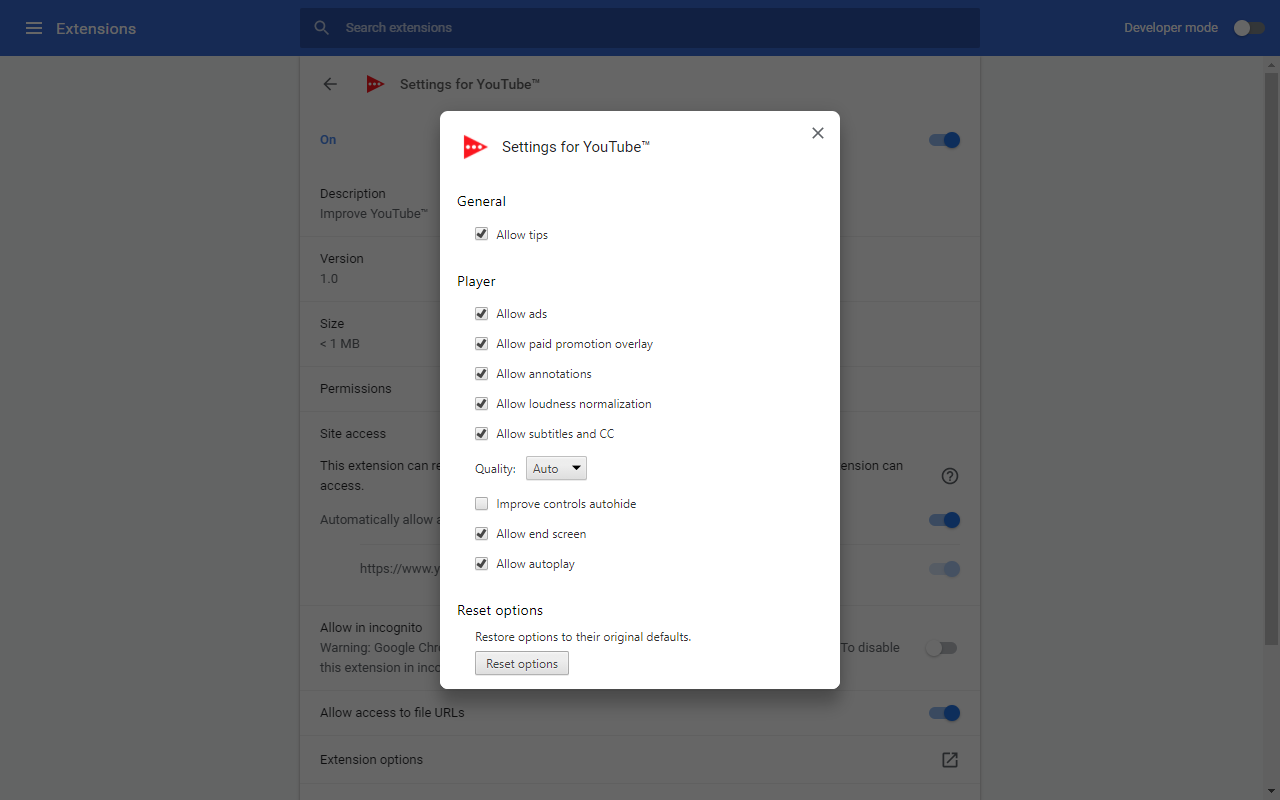
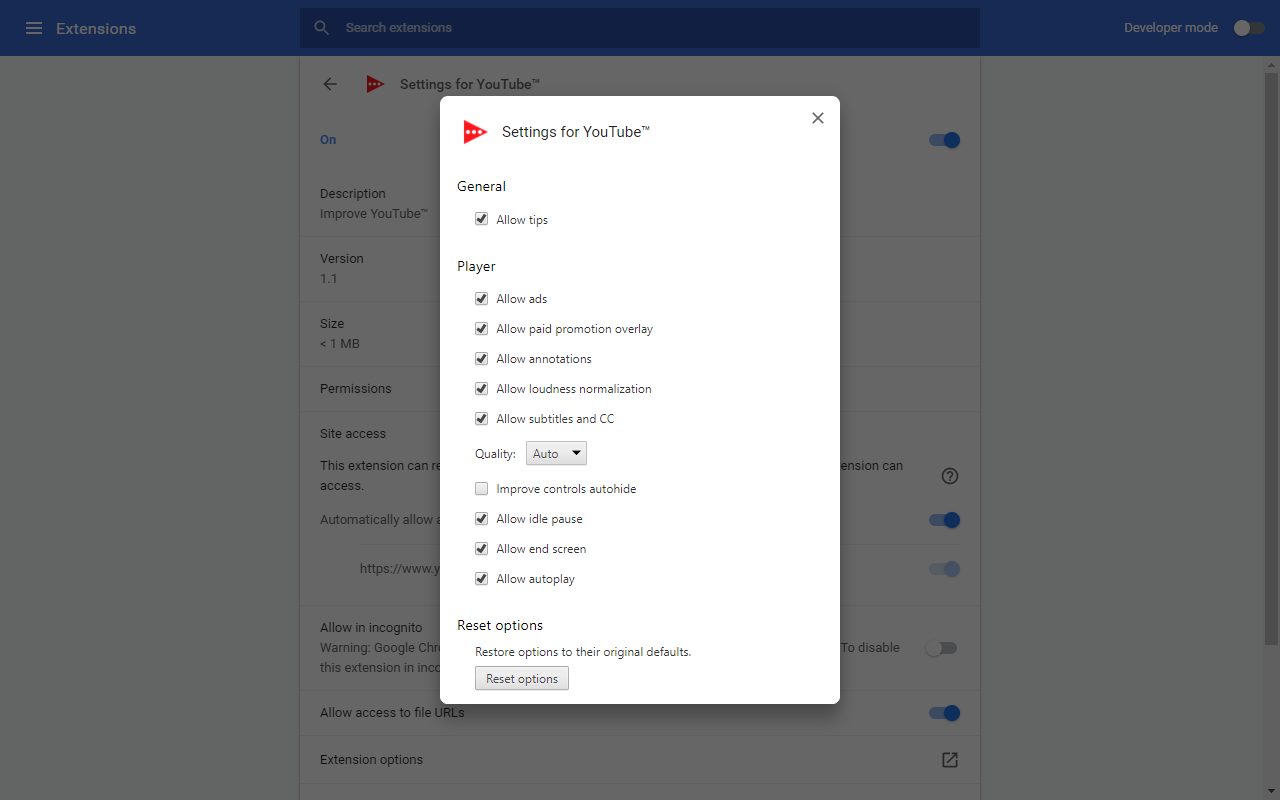
Add allow idle pause

Changed region(s): [[0.3438, 0.3125, 0.6562, 0.9062], [0.3438, 0.0938, 0.6562, 0.1875], [0.3438, 0.2188, 0.4375, 0.3125]]

diff --git a/chrome/js/options.js b/chrome/js/options.js
@@ -14,6 +14,7 @@
     document.getElementById('iv_load_policy').checked = items
       .iv_load_policy === '1';
     document.getElementById('autohide').checked = items.autohide === '3';
+    document.getElementById('youthere').checked = items.youthere === '1';
     document.getElementById('suppress_creator_endscreen').checked = items
       .suppress_creator_endscreen === '0';
     document.getElementById('autonav').checked = items.autonav === '2';
@@ -56,6 +57,11 @@
       items.autohide = '3';
     } else {
       items.autohide = '1';
+    }
+    if (document.getElementById('youthere').checked) {
+      items.youthere = '1';
+    } else {
+      items.youthere = '0';
     }
     if (document.getElementById('suppress_creator_endscreen').checked) {
       items.suppress_creator_endscreen = '0';
@@ -100,6 +106,7 @@
     cc_load_policy: '0',
     suggestedQuality: 'auto',
     autohide: '1',
+    youthere: '1',
     suppress_creator_endscreen: '0',
     autonav: '2'
   }, main);

diff --git a/chrome/js/content_script.js b/chrome/js/content_script.js
@@ -56,6 +56,17 @@ const settingsForYouTube = function (items) {
           'yt-html5-player-modules::subtitlesModuleData::module-enabled'
         );
       }
+      if (playerResponse.messages && items.youthere === '0') {
+        let i = 0;
+        let messages = playerResponse.messages;
+        while (i < messages.length) {
+          if (messages[i].youThereRenderer) {
+            messages.splice(i, 1);
+            break;
+          }
+          i += 1;
+        }
+      }
       if (items.suppress_creator_endscreen === '1') {
         delete playerResponse.endscreen;
       }
@@ -352,6 +363,7 @@ window.chrome.storage.local.get({
   cc_load_policy: '0',
   suggestedQuality: 'auto',
   autohide: '1',
+  youthere: '1',
   suppress_creator_endscreen: '0',
   autonav: '2'
 }, main);

diff --git a/chrome/options.html b/chrome/options.html
@@ -112,6 +112,12 @@ body section > div:only-of-type {
         </div>
         <div class="checkbox">
           <label>
+            <input id="youthere" type="checkbox" checked>
+            <span i18n-content="playerAllowIdlePause"></span>
+          </label>
+        </div>
+        <div class="checkbox">
+          <label>
             <input id="suppress_creator_endscreen" type="checkbox" checked>
             <span i18n-content="playerAllowEndScreen"></span>
           </label>
